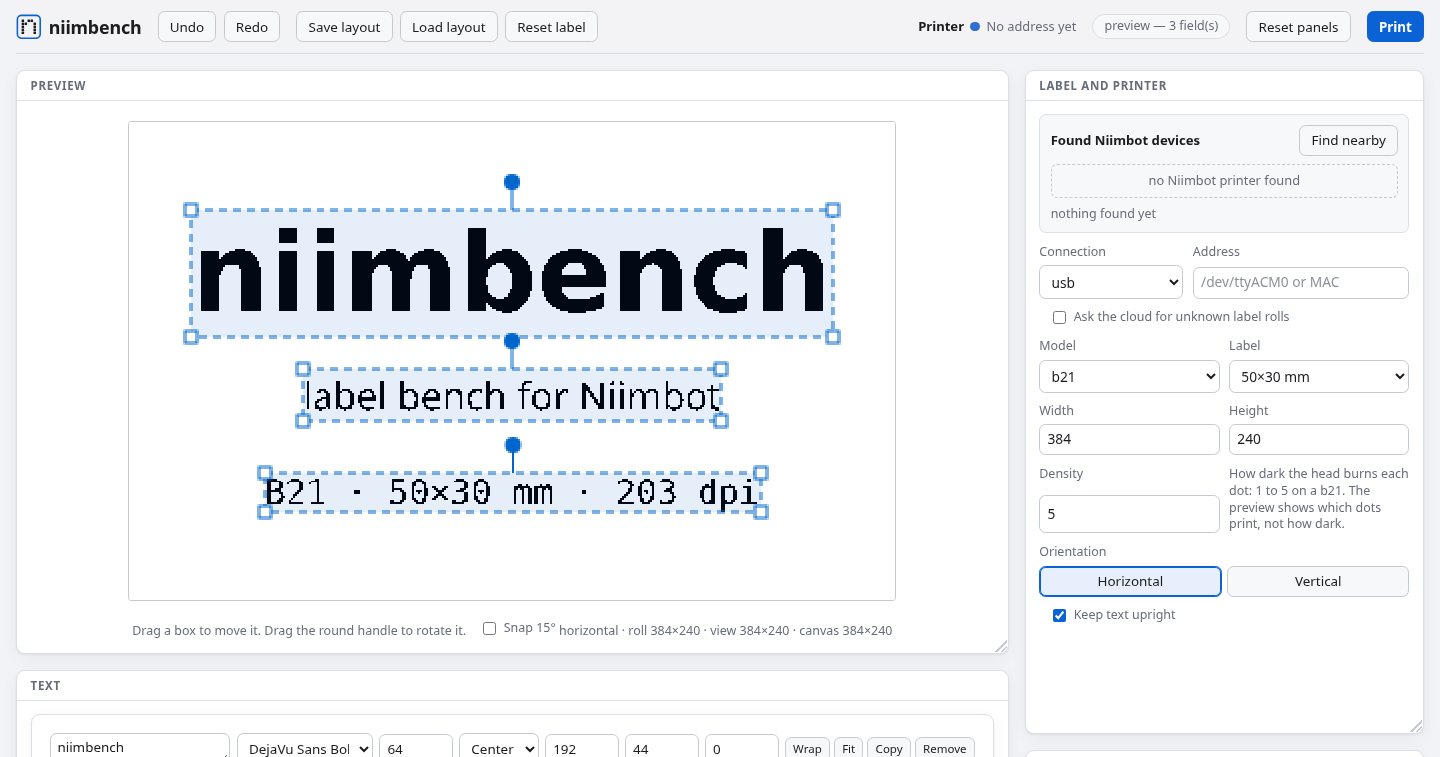
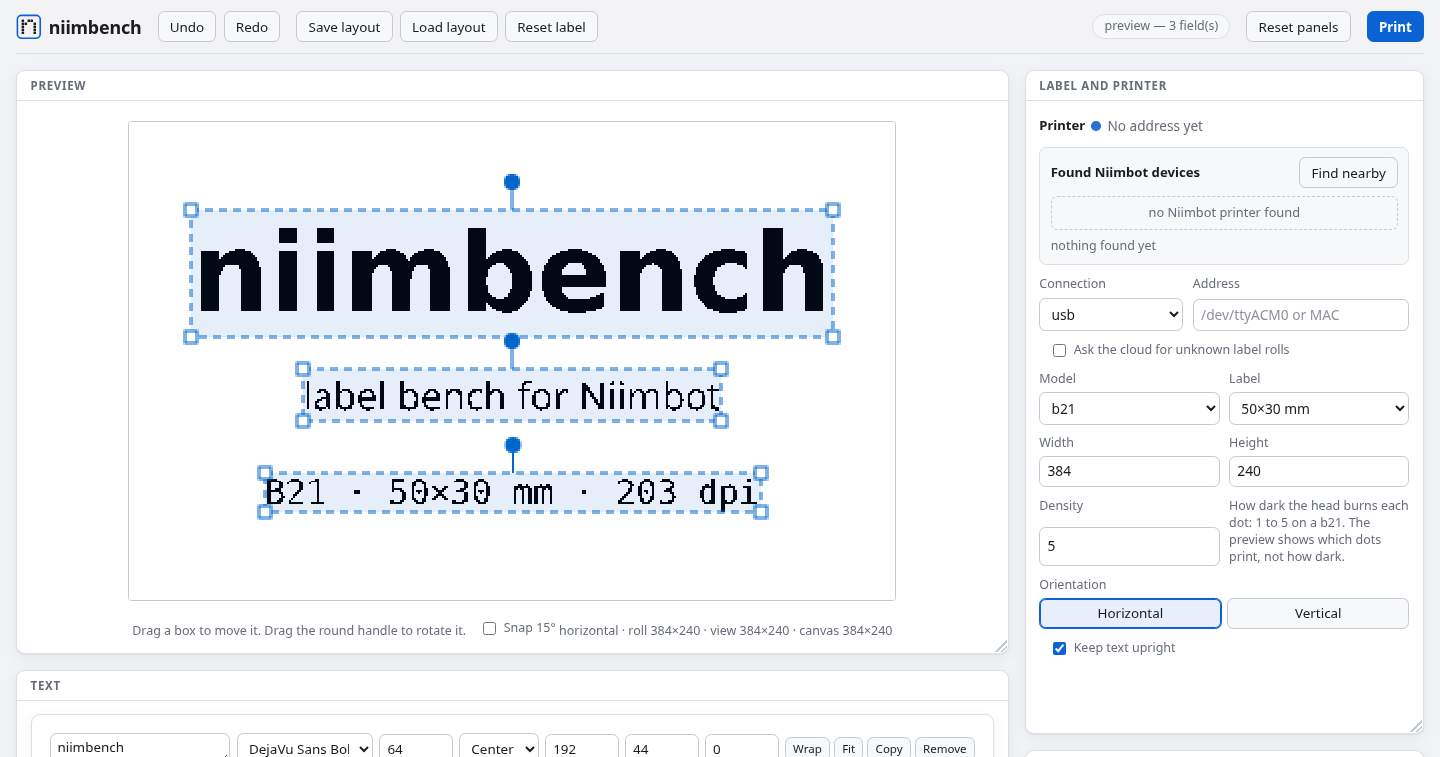
Move the printer status to the top of the Label and printer panel
On the header, the printer's status and last job were easy to overlook.
They now open the Label and printer panel, above the found devices, with
the same ids and the same two lines.

The changelog's unreleased entry, the guide and the README screenshot
follow.

Changed region(s): [[0.7188, 0.2734, 0.9688, 0.8811], [0.7188, 0.1519, 0.9688, 0.2431], [0.625, 0.0304, 0.75, 0.0608]]

diff --git a/src/editor.html b/src/editor.html
@@ -65,18 +65,14 @@
     .brand { width: 1.6rem; height: 1.6rem; flex: none; }
     .brand .frame { fill: none; stroke: var(--accent); stroke-width: 7; }
     .brand g { fill: currentColor; }
-    /* The printer's status, the page's, Reset panels and Print keep together
-       at the right: a header too narrow for one line wraps them as a group, so
-       Print never ends up alone at the start of a line. */
+    /* The status, Reset panels and Print keep together at the right: a header
+       too narrow for one line wraps them as a group, so Print never ends up
+       alone at the start of a line. */
     .header-end { display: flex; align-items: center; gap: 1rem; min-width: 0; margin-left: auto; }
-    /* Two short lines, the printer and its last job, cut rather than wrapped
-       so the header keeps its height; the last job's full text is its title. */
-    .printer-status { display: grid; min-width: 0; max-width: 20rem; }
-    .printer-status p { min-width: 0; margin: 0; white-space: nowrap; overflow: hidden; text-overflow: ellipsis; }
-    .printer-status .state { display: flex; font-size: 0.8rem; }
-    .printer-status .state > :last-child { min-width: 0; overflow: hidden; text-overflow: ellipsis; }
+    /* The printer and its last job open the Label and printer panel. On the
+       header they were easy to overlook. */
+    .printer-status .state { margin: 0; }
     .printer-status .printers-title { color: var(--ink); }
-    .printer-status .last { font-size: 0.74rem; }
     #status {
       min-height: 0; min-width: 0; margin: 0; max-width: 24rem; padding: 0.18rem 0.7rem;
       font-size: 0.78rem; color: var(--muted); white-space: nowrap;
@@ -309,8 +305,7 @@
   <header>
     <h1><svg class="brand" viewBox="4 8 112 112" aria-hidden="true"><rect class="frame" x="10" y="14" width="100" height="100" rx="18"/><g><rect x="28.5" y="32.5" width="11" height="11" rx="1.5"/><rect x="54.5" y="32.5" width="11" height="11" rx="1.5"/><rect x="67.5" y="32.5" width="11" height="11" rx="1.5"/><rect x="28.5" y="45.5" width="11" height="11" rx="1.5"/><rect x="41.5" y="45.5" width="11" height="11" rx="1.5"/><rect x="80.5" y="45.5" width="11" height="11" rx="1.5"/><rect x="28.5" y="58.5" width="11" height="11" rx="1.5"/><rect x="80.5" y="58.5" width="11" height="11" rx="1.5"/><rect x="28.5" y="71.5" width="11" height="11" rx="1.5"/><rect x="80.5" y="71.5" width="11" height="11" rx="1.5"/><rect x="28.5" y="84.5" width="11" height="11" rx="1.5"/><rect x="80.5" y="84.5" width="11" height="11" rx="1.5"/></g></svg>niimbench</h1>
     <!-- What acts on the whole label lives on the header, which stays in view
-         however the panels are arranged: its history, its file, the printer's
-         status, and Print. -->
+         however the panels are arranged: its history, its file, and Print. -->
     <div class="tools">
       <button type="button" id="undo" title="undo (Ctrl+Z)">Undo</button>
       <button type="button" id="redo" title="redo (Ctrl+Shift+Z)">Redo</button>
@@ -321,15 +316,6 @@
       <button type="button" id="reset" title="put the label back to the one the page opens with">Reset label</button>
     </div>
     <div class="header-end">
-    <div class="printer-status">
-      <p id="printer-state" class="state idle" aria-live="polite"
-         title="This is what niimbench knows: the connection you picked, the printer it found, and whether a job is running. It is not the printer's own light — that is in docs/manuals/d110.md.">
-        <span class="printers-title">Printer</span>
-        <span class="dot" aria-hidden="true"></span>
-        <span id="printer-state-text">No address yet</span>
-      </p>
-      <p id="printer-last" class="last" aria-live="polite" hidden></p>
-    </div>
     <p id="status" aria-live="polite">idle</p>
     <button type="button" id="reset-panels" title="put every panel back where the page first had it">Reset panels</button>
     <!-- `form` lets Print submit the form it is not inside. -->
@@ -352,6 +338,15 @@
   <section class="panel" data-panel="printer">
     <h2 class="panel-head">Label and printer</h2>
     <div class="panel-body">
+      <div class="printer-status span">
+        <p id="printer-state" class="state idle" aria-live="polite"
+           title="This is what niimbench knows: the connection you picked, the printer it found, and whether a job is running. It is not the printer's own light — that is in docs/manuals/d110.md.">
+          <span class="printers-title">Printer</span>
+          <span class="dot" aria-hidden="true"></span>
+          <span id="printer-state-text">No address yet</span>
+        </p>
+        <p id="printer-last" class="last" aria-live="polite" hidden></p>
+      </div>
       <div class="printers span">
         <div class="printers-head">
           <span class="printers-title">Found Niimbot devices</span>
@@ -2564,7 +2559,6 @@
       const line = document.querySelector("#printer-last");
       line.hidden = false;
       line.textContent = "Last job: " + text;
-      line.title = line.textContent;
       line.classList.toggle("failed", failed);
     }
 

diff --git a/docs/user/guide/index.md b/docs/user/guide/index.md
@@ -122,7 +122,7 @@ The scan is in [../../subsystems/printer.md](../../subsystems/printer.md). **Con
 
 ## Print
 
-The **Printer** line on the header, left of the status line and **Print**, says what this page knows: a blue dot and `No address yet` when nothing is chosen, a green dot with the connection, model and `ready` once an address is set, and an amber dot while a job is being sent. It always describes the printer picked now: picking another one from the list, or loading a layout, updates it at once. Under it, `Last job:` says how the last print went — `printed`, or the error in red — and stays until the next print, so a failure is still there to read without hiding which printer is picked. It is the page's own state, not the printer's indicator light, which is a separate thing described in [manuals/d110.md](../../manuals/d110.md).
+The **Printer** line at the top of the **Label and printer** panel says what this page knows: a blue dot and `No address yet` when nothing is chosen, a green dot with the connection, model and `ready` once an address is set, and an amber dot while a job is being sent. It always describes the printer picked now: picking another one from the list, or loading a layout, updates it at once. Under it, `Last job:` says how the last print went — `printed`, or the error in red — and stays until the next print, so a failure is still there to read without hiding which printer is picked. It is the page's own state, not the printer's indicator light, which is a separate thing described in [manuals/d110.md](../../manuals/d110.md).
 
 Set **Model**, **Density**, **Orientation**, **Connection**, and **Address**.
 

diff --git a/CHANGELOG.md b/CHANGELOG.md
@@ -13,10 +13,8 @@ and [docs/cookbook/releasing.md](docs/cookbook/releasing.md) is the procedure.
 
 ### Changed
 
-- The printer's status and last job are on the header, left of the page status,
-  so they stay in view however the panels are arranged.
-- The Label and printer panel opens with the printer: the found devices,
-  then connection and address, then the cloud opt-in, which now reads "Ask
+- The Label and printer panel opens with the printer: its status and last
+  job, the found devices, then connection and address, then the cloud opt-in, which now reads "Ask
   the cloud for unknown label rolls" on one line. The label's model, size,
   density and orientation follow.
 
